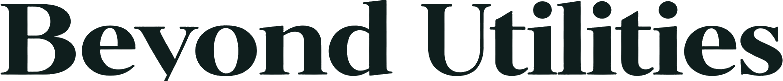
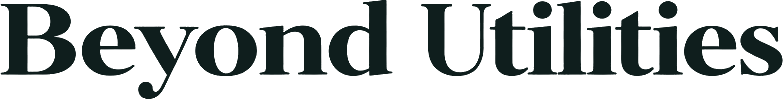
Beyond Utilities: full wordmark in the header on A and B (tail of the y no longer cut off)

diff --git a/beyond-utilities-b/index.html b/beyond-utilities-b/index.html
@@ -51,7 +51,7 @@ section{padding-top:100px;padding-bottom:100px}
 .nav{position:sticky;top:0;z-index:50;background:var(--teal);border-bottom:1px solid var(--line)}
 .nav-in{display:flex;align-items:center;justify-content:space-between;height:66px;gap:16px}
 .nav-logo{white-space:nowrap;flex:none}
-.nav-logo img{height:22px;width:auto}
+.nav-logo img{height:27px;width:auto}
 .nav-right{display:flex;align-items:center;gap:10px}
 .nav-links{display:flex;gap:26px;list-style:none;margin-right:14px}
 .nav-links a{font-weight:600;font-size:.95rem;color:var(--white);opacity:.86}
@@ -190,7 +190,7 @@ footer{background:var(--deeper);border-top:1px solid var(--line);padding-top:54p
   section{padding-top:76px;padding-bottom:76px}
 }
 @media (max-width:480px){
-  .nav-logo img{height:17px}
+  .nav-logo img{height:21px}
   .call-pill{padding:0 13px;font-size:.86rem;height:40px}
   .call-pill .num{display:none}
   .fold{padding-top:24px;padding-bottom:56px}
@@ -215,7 +215,7 @@ footer{background:var(--deeper);border-top:1px solid var(--line);padding-top:54p
 <body>
 <header class="nav" id="top">
   <div class="nav-in wrap">
-    <a class="nav-logo" href="#top" aria-label="Beyond Utilities home"><img src="wordmark-white.png" alt="Beyond Utilities" width="783" height="81"></a>
+    <a class="nav-logo" href="#top" aria-label="Beyond Utilities home"><img src="wordmark-white.png" alt="Beyond Utilities" width="783" height="99"></a>
     <div class="nav-right">
       <ul class="nav-links" id="navLinks">
         <li><a href="#check">Utility Check</a></li>

diff --git a/beyond-utilities/index.html b/beyond-utilities/index.html
@@ -60,7 +60,7 @@ section{padding-top:96px;padding-bottom:96px}
 .nav{position:sticky;top:0;z-index:50;background:var(--bg);border-bottom:1px solid var(--line)}
 .nav-in{display:flex;align-items:center;justify-content:space-between;height:72px;gap:24px}
 .nav-logo{display:flex;align-items:center;white-space:nowrap;flex:none}
-.nav-logo img{height:26px;width:auto}
+.nav-logo img{height:32px;width:auto}
 .nav-links{display:flex;align-items:center;gap:28px;list-style:none}
 .nav-links a{font-weight:600;font-size:.95rem;color:var(--ink2);transition:color .2s}
 .nav-links a:hover{color:var(--teal)}
@@ -295,7 +295,7 @@ footer{background:var(--ink);color:#9fb2ae;padding-top:64px;padding-bottom:36px}
 <body>
 <header class="nav" id="top">
   <div class="nav-in wrap">
-    <a class="nav-logo" href="#top" aria-label="Beyond Utilities home"><img src="wordmark.png" alt="Beyond Utilities" width="783" height="81"></a>
+    <a class="nav-logo" href="#top" aria-label="Beyond Utilities home"><img src="wordmark.png" alt="Beyond Utilities" width="783" height="99"></a>
     <ul class="nav-links" id="navLinks">
       <li><a href="#services">Services</a></li>
       <li><a href="#reviews-fixed">Utility Reviews</a></li>
